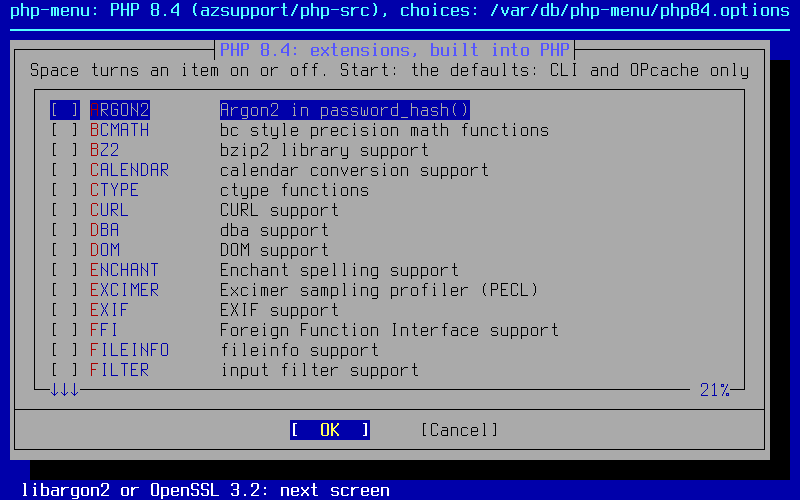
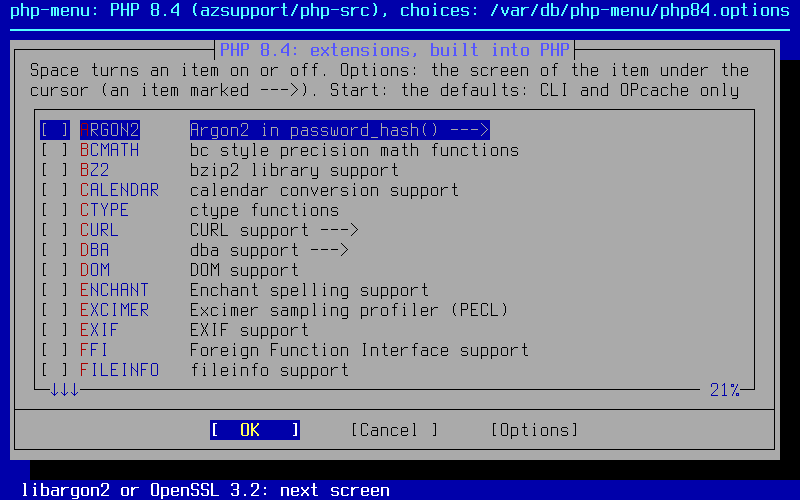
php-menu: the drivers of PDO on a screen of their own, the button Options
Dialogs have no drop-down lists: the choices of one extension are a
screen of their own, after the list. Now:

- the drivers of PDO (PDO_MYSQL, PDO_PGSQL, PDO_SQLITE, PDO_ODBC,
  PDO_FIREBIRD, PDO_DBLIB) leave the list for the screen "PDO: drivers",
  shown when PDO is on, as the options of GD are; the items keep their
  names, so templates, saved choices and --batch +PDO_MYSQL stay as
  they were;
- an item belongs to the item of its screen (the engine takes the
  parent from the screen, not only from the dot of REDIS.LZ4): the
  drivers count only with PDO, their help no longer says "needs PDO";
- an item with a screen of its own is marked "--->" in the list;
- the button Options of the list opens the screens of the item under
  the cursor at once (it is turned on for them, Cancel puts back what
  was there) and brings the list back with the cursor on that item;
  those screens are not shown again right after the list. bsddialog
  and dialog answer it like Help, with --help-status and --help-tags:
  "HELP <item>" and the items that are on, so the choices made in the
  list before are kept. bsddialog before 1.0 (FreeBSD 13) gets the list
  without the button;
- --batch and templates: an item of a screen of its own turns on its
  extension too (+PDO_MYSQL turns on PDO, +REDIS.LZ4 REDIS).

Tested in an 80x25 pty with bsddialog 1.1 and dialog 1.3-20240101: the
button on PDO, a driver chosen, the list again with the earlier choices,
[…]

diff --git a/tools/menu-screenshots.py b/tools/menu-screenshots.py
@@ -196,21 +196,25 @@ def main():
             except FileNotFoundError:
                 pass
 
-    # Roundcube: the template, the screens, the script
+    # Roundcube: the template, the screens (PDO with the button Options), the script
     fresh()
     session('menu-roundcube', menu, [
         (None, 2.5, 'menu-start'),
         ('down', 2.5, 'menu-start-roundcube'),
         ('enter', 2.5, 'menu-roundcube-core'),
         ('enter', 3.0, 'menu-roundcube-ext'),
-        ('pgdn', 2.5, None),
-        ('pgdn', 2.5, None),
-        ('pgdn', 2.5, 'menu-roundcube-ext2'),
-        ('pgdn', 2.5, None),
+        ('P', 0.6, None),      # the items with P: PCNTL,
+        ('P', 2.5, 'menu-roundcube-ext2'),  # PDO
+        ('right', 0.8, None),  # the buttons: Cancel,
+        ('right', 2.0, 'menu-roundcube-options'),  # Options
+        ('enter', 3.0, 'menu-roundcube-pdo'),  # the drivers of PDO
+        ('enter', 2.0, None),  # back in the list, on PDO
+        ('pgdn', 2.0, None),
+        ('pgdn', 2.0, None),
         ('enter', 2.0, None),  # curl: which libcurl
         ('enter', 2.0, None),  # GD options
         ('enter', 2.0, None),  # mbstring options
-        ('enter', 2.0, None),  # OpenSSL options
+        ('enter', 2.0, None),  # OpenSSL options (PDO was shown already)
         ('enter', 2.5, 'menu-main'),
         ('end', 0.8, None),
         ('up', 2.0, None),

diff --git a/README.ru.md b/README.ru.md
@@ -365,7 +365,14 @@ LIBS='-lpthread'
 |---|---|
 | Опции сборки | опции `lang/phpXY` и `mod_phpXY`: SAPI, ZTS, отладка, IPv6, JIT OPcache, системная PCRE |
 | Расширения | расширения `phpXY-extensions` плюс встроенные расширения PECL |
-| Опции отдельных расширений | какой libcurl, legacy-провайдер OpenSSL, какая libgd и её форматы, обработчики DBA, сессии, сериализаторы и сжатие redis и memcached, Argon2 из libargon2 или из OpenSSL 3.2 в 8.4, … |
+| Опции отдельных расширений | какой libcurl, legacy-провайдер OpenSSL, какая libgd и её форматы, драйверы PDO, обработчики DBA, сессии, сериализаторы и сжатие redis и memcached, Argon2 из libargon2 или из OpenSSL 3.2 в 8.4, … |
+
+Расширение со своим экраном (curl, GD, PDO, redis, …) отмечено в списке стрелкой
+`--->`. Его экран идёт после списка, если расширение включено, а кнопка **Options**
+списка открывает экран пункта под курсором сразу и потом возвращает список с курсором
+на этом пункте (Cancel там всё отменяет); экран, показанный так, сразу после списка
+второй раз не показывается. Выпадающих списков в диалогах нет, поэтому выбор одного
+пункта открывается так.
 
 Что от чего зависит, проверяется прямо при выборе — по скриптам configure и исходникам
 C каждой ветки:
@@ -394,7 +401,7 @@ sh config.menu.sh
 | Не пишется | `--infodir` (PHP не ставит info-страниц); `--localstatedir=/var` — только вместе с FPM (его читает один php-fpm) |
 | Выбор | сохраняется так же, как его сохраняют порты, — в `/var/db/php-menu/phpXY.options` — и становится началом следующего запуска (`--reset` начинает заново) |
 | В конце | пакеты, которые нужны выбору |
-| Без диалогов | `sh php-menu.sh --batch +GD -CGI PREFIX=/usr/local/php84` пишет скрипт |
+| Без диалогов | `sh php-menu.sh --batch +GD -CGI PREFIX=/usr/local/php84` пишет скрипт; пункт со своего экрана включает и своё расширение (`+PDO_MYSQL` — PDO) |
 | `--list` | `sh php-menu.sh --list` показывает пункты, пути, их состояние и шаблоны |
 
 **Шаблоны.** Сначала меню спрашивает, с чего начать: с того, что оно нашло (сохранённый
@@ -419,10 +426,15 @@ sh config.menu.sh
 | Нет в нём | mysqli, PostgreSQL, SQLite, LDAP; pspell и enchant — их использует только проверка орфографии (`spellcheck_engine`), а она с Roundcube 1.5.0 по умолчанию выключена (`enable_spellcheck`) |
 
 Меню с шаблоном `roundcube` (bsddialog в консоли FreeBSD 80x25, шрифт Terminus): с чего
-начать, опции сборки, расширения, опции curl, GD, mbstring и OpenSSL, главное меню и
-скрипт, который оно пишет:
+начать, опции сборки, расширения, драйверы PDO через кнопку Options, опции curl, GD,
+mbstring и OpenSSL, главное меню и скрипт, который оно пишет:
 
 <p><img src="docs/images/menu-roundcube.gif" alt="php-menu.sh с шаблоном roundcube" width="800"></p>
+
+Кнопка Options на PDO и экран, который она открывает:
+
+<p><img src="docs/images/menu-roundcube-options.png" alt="Кнопка Options на PDO" width="800"></p>
+<p><img src="docs/images/menu-roundcube-pdo.png" alt="Драйверы PDO" width="800"></p>
 
 Расширения с шаблоном `roundcube` и у голой сборки (по умолчанию: только CLI и OPcache):
 

diff --git a/README.md b/README.md
@@ -364,7 +364,14 @@ of the ports. Unlike the ports, everything is built into one PHP.
 |---|---|
 | Build options | the options of `lang/phpXY` and `mod_phpXY`: SAPI, ZTS, debug, IPv6, OPcache JIT, the system PCRE |
 | Extensions | the extensions of `phpXY-extensions` plus the bundled PECL extensions |
-| Options of single extensions | which libcurl, the OpenSSL legacy provider, which libgd and its formats, the DBA handlers, sessions, serializers and compression of redis and memcached, Argon2 of libargon2 or of OpenSSL 3.2 in 8.4, ... |
+| Options of single extensions | which libcurl, the OpenSSL legacy provider, which libgd and its formats, the drivers of PDO, the DBA handlers, sessions, serializers and compression of redis and memcached, Argon2 of libargon2 or of OpenSSL 3.2 in 8.4, ... |
+
+An extension with a screen of its own (curl, GD, PDO, redis, ...) is marked `--->` in
+the list. Its screen follows the list when the extension is on, and the button
+**Options** of the list opens the screen of the item under the cursor at once, then
+brings the list back with the cursor on that item (Cancel there undoes it); a screen
+seen that way does not come again right after the list. Dialogs have no drop-down
+lists, so this is the way to open the choices of one item.
 
 What needs what is checked while you choose, from the configure scripts and the C
 sources of every branch:
@@ -393,7 +400,7 @@ sh config.menu.sh
 | Left out | `--infodir` (PHP installs no info pages); `--localstatedir=/var` comes with FPM only (php-fpm alone reads it) |
 | The choices | saved the way the ports save theirs, in `/var/db/php-menu/phpXY.options`, and the start of the next run (`--reset` starts over) |
 | At the end | the packages the choices need |
-| Without dialogs | `sh php-menu.sh --batch +GD -CGI PREFIX=/usr/local/php84` writes the script |
+| Without dialogs | `sh php-menu.sh --batch +GD -CGI PREFIX=/usr/local/php84` writes the script; an item of a screen of its own turns on its extension too (`+PDO_MYSQL`: PDO) |
 | `--list` | `sh php-menu.sh --list` shows the items, the paths, their state and the templates |
 
 **Templates.** The menu first asks where to start: what it found (the saved choices,
@@ -418,10 +425,16 @@ What the `roundcube` template turns on and leaves out:
 | Not in it | mysqli, PostgreSQL, SQLite, LDAP; pspell and enchant, which only the spell checker uses (`spellcheck_engine`), and that is off by default since Roundcube 1.5.0 (`enable_spellcheck`) |
 
 The menu with the `roundcube` template (bsddialog in the 80x25 console of FreeBSD,
-Terminus font): where to start, the build options, the extensions, the options of
-curl, GD, mbstring and OpenSSL, the main menu and the script it writes:
+Terminus font): where to start, the build options, the extensions, the drivers of PDO
+through the button Options, the options of curl, GD, mbstring and OpenSSL, the main
+menu and the script it writes:
 
 <p><img src="docs/images/menu-roundcube.gif" alt="php-menu.sh with the roundcube template" width="800"></p>
+
+The button Options on PDO, and the screen it opens:
+
+<p><img src="docs/images/menu-roundcube-options.png" alt="The button Options on PDO" width="800"></p>
+<p><img src="docs/images/menu-roundcube-pdo.png" alt="The drivers of PDO" width="800"></p>
 
 The extensions with the `roundcube` template, and of the bare build (the defaults:
 the CLI and OPcache only):
